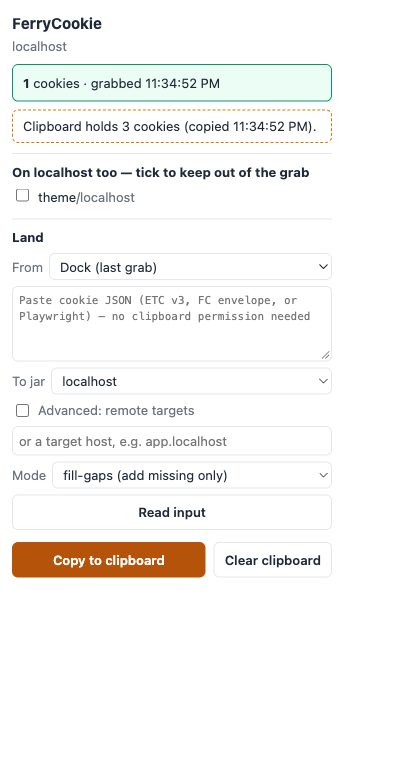
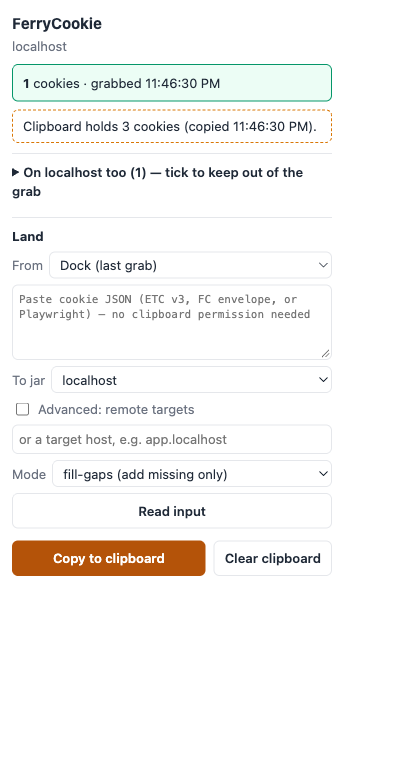
feat: collapse the protect list behind a disclosure
On real sites the On localhost too list is a wall of tracker rows
(_ga and friends) that pushes the Land section off-screen. The list
is now a native <details>/<summary> — collapsed by default, no JS to
toggle, in keeping with the reviewable-vanilla pitch — with the row
count visible in the summary while collapsed.

The section auto-expands once, on popup open, when a protected row is
in the list: the checkbox is the only way back out of the protect
list, so it must not hide behind a collapsed section. Later renders
never force the state back. E2e expands the section explicitly before
ticking; the reopen-and-uncheck phase rides the auto-expand. Showcase
shot 01 expanded for the capture; screenshots regenerated.

diff --git a/src/popup/popup.js b/src/popup/popup.js
@@ -45,6 +45,12 @@ async function init() {
     getActiveTabUrl: () => state.tab?.url ?? null,
   });
   render();
+  // One-time, on popup open: if a protected row is in the preview, expand it
+  // so the checkbox — the only way back out of the protect list — is not
+  // buried in a collapsed section. Later renders never force it either way.
+  if (state.overlap.some((row) => state.protect.includes(row.name))) {
+    $('preview-details').open = true;
+  }
 }
 
 function wireEvents() {
@@ -225,6 +231,7 @@ function renderPreview() {
     return;
   }
   section.hidden = false;
+  $('preview-count').textContent = String(state.overlap.length);
   ul.replaceChildren();
   for (const row of state.overlap) {
     const li = document.createElement('li');

diff --git a/src/popup/popup.html b/src/popup/popup.html
@@ -24,8 +24,10 @@
   <ul id="flags" class="flags"></ul>
 
   <section id="preview" hidden>
-    <h2>On localhost too — tick to keep out of the grab</h2>
-    <ul id="preview-list"></ul>
+    <details id="preview-details">
+      <summary>On localhost too (<span id="preview-count">0</span>) — tick to keep out of the grab</summary>
+      <ul id="preview-list"></ul>
+    </details>
   </section>
 
   <section id="land">

diff --git a/src/popup/popup.css b/src/popup/popup.css
@@ -90,6 +90,14 @@ header h1 {
   margin: 0 0 4px;
 }
 
+#preview summary {
+  cursor: pointer;
+  user-select: none;
+  margin: 0 0 4px;
+  font-size: 13px;
+  font-weight: 600;
+}
+
 #preview ul {
   list-style: none;
   margin: 0;

diff --git a/README.md b/README.md
@@ -61,9 +61,11 @@ folder.
   cookie count, the source host, and the grab time. *Copy to clipboard* is
   the only thing that writes the clipboard, and only on your click.
 - **Preview & protect:** the popup lists cookies present on both the grab
-  and the local `localhost` jar (ports share one jar). Tick a cookie to
-  protect it: protected names never enter the JSON and are listed in the
-  popup. The protect list (names only) lives in `storage.session`.
+  and the local `localhost` jar (ports share one jar) in a collapsed-by-default
+  **On localhost too** disclosure — it auto-expands on open while anything is
+  protected. Tick a cookie to protect it: protected names never enter the
+  JSON and are listed in the popup. The protect list (names only) lives in
+  `storage.session`.
 - **Clear:** after any copy the popup shows *clipboard holds credentials*
   with a one-tap **Clear clipboard**.
 - **Context menu / shortcut:** right-click → *Copy cookies as localhost
